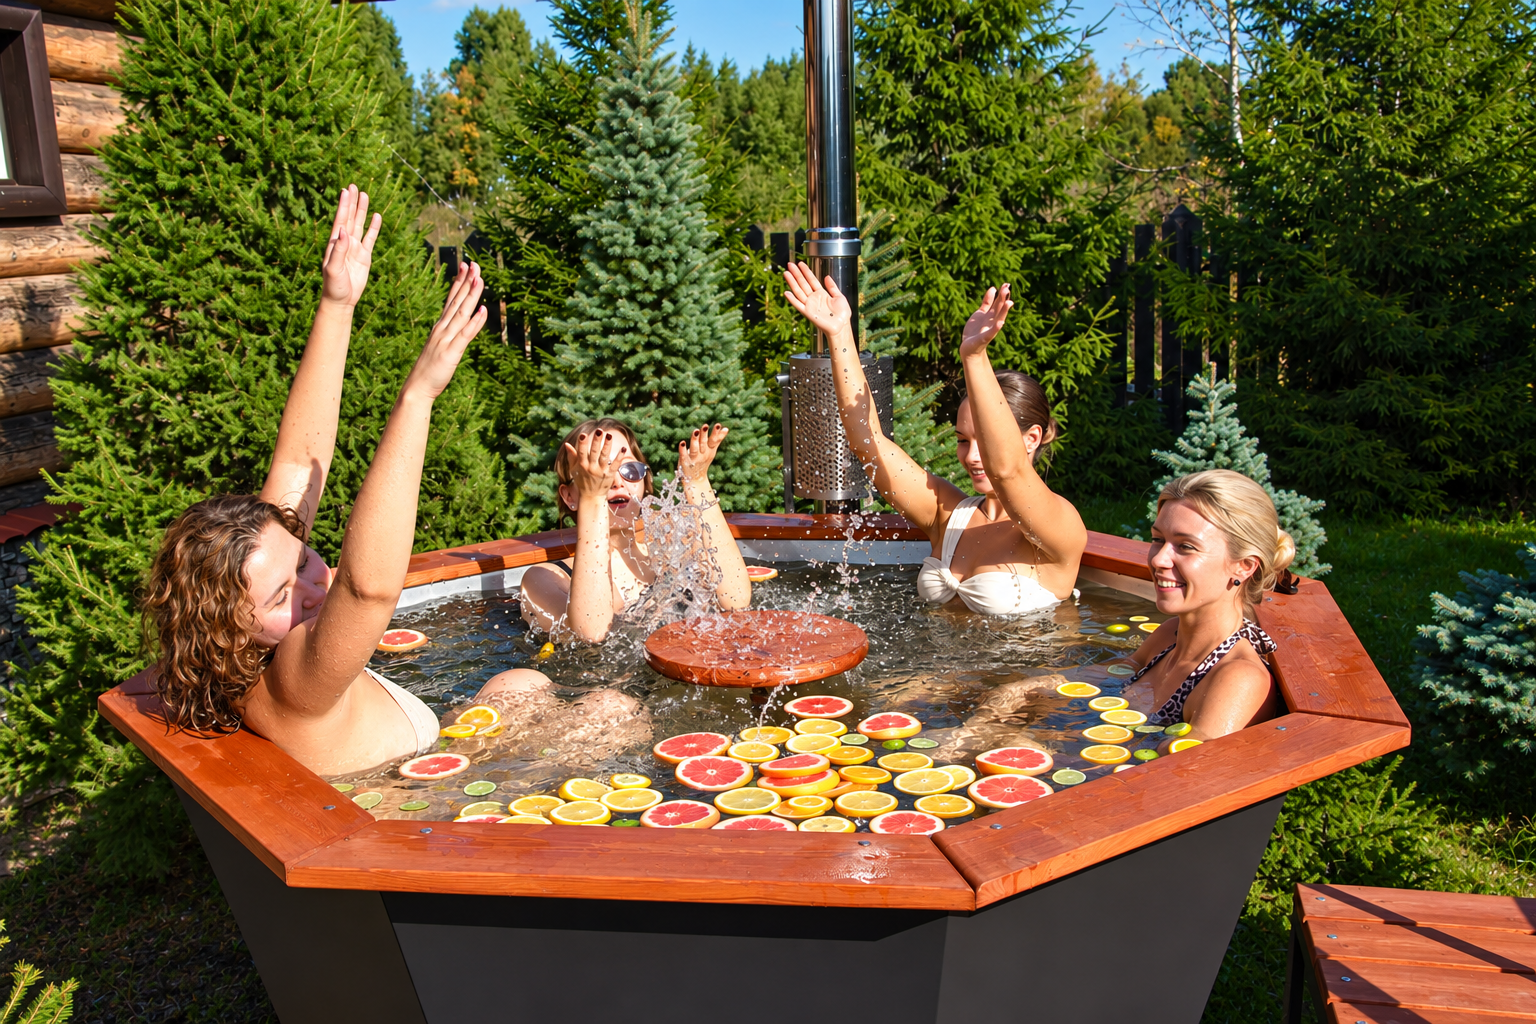
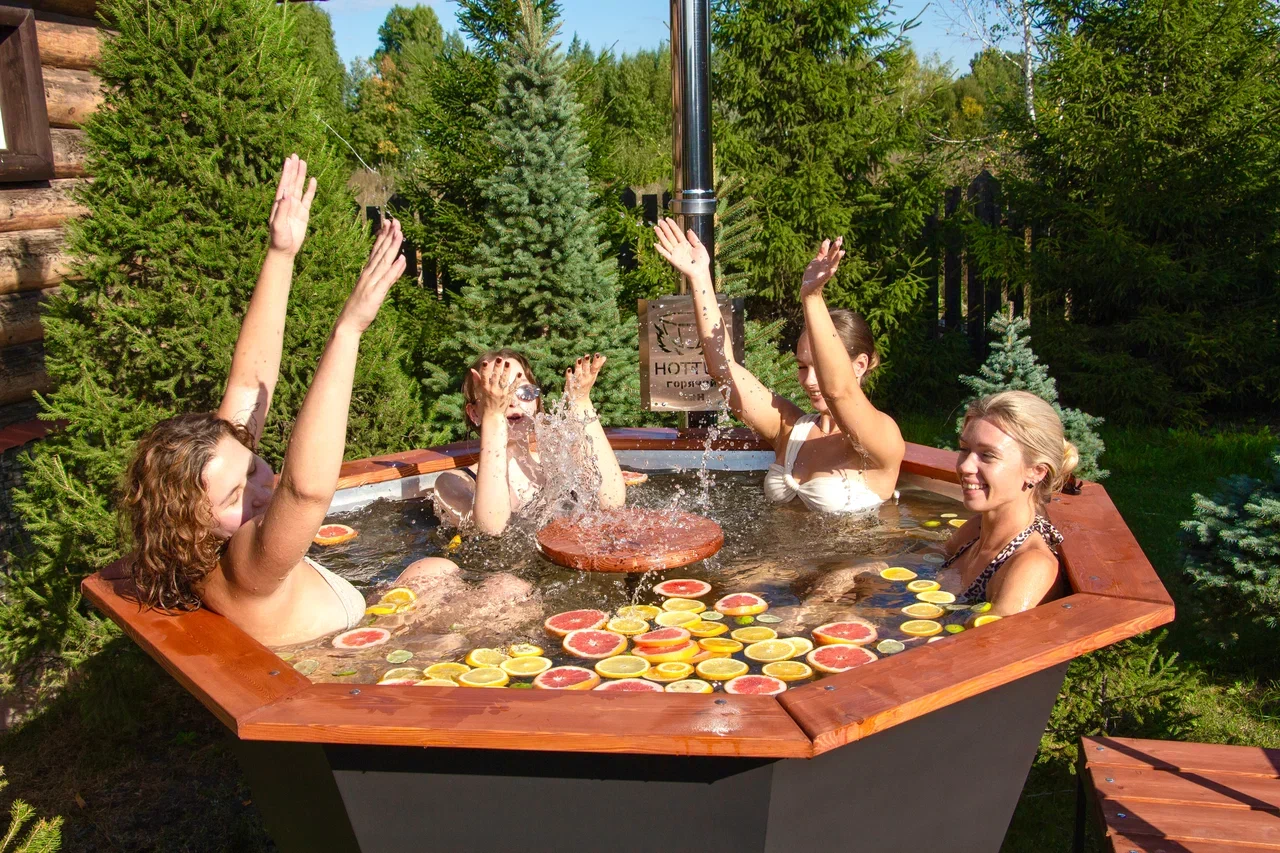
Widen the home hero framing and replace the customization photo

diff --git a/src/components/sections/Hero.tsx b/src/components/sections/Hero.tsx
@@ -26,7 +26,7 @@ export function Hero() {
         // The first thing on the page, so it is fetched ahead of everything else.
         loading="eager"
         fetchPriority="high"
-        className="absolute inset-x-0 top-0 -z-20 h-[30rem] w-full object-cover lg:inset-0 lg:h-full"
+        className="absolute inset-x-0 top-0 -z-20 h-[30rem] w-full object-cover lg:inset-0 lg:h-full lg:object-[50%_67%]"
       />
       {/*
        * The shot is bright where the sun sits, so a flat wash is not enough to
